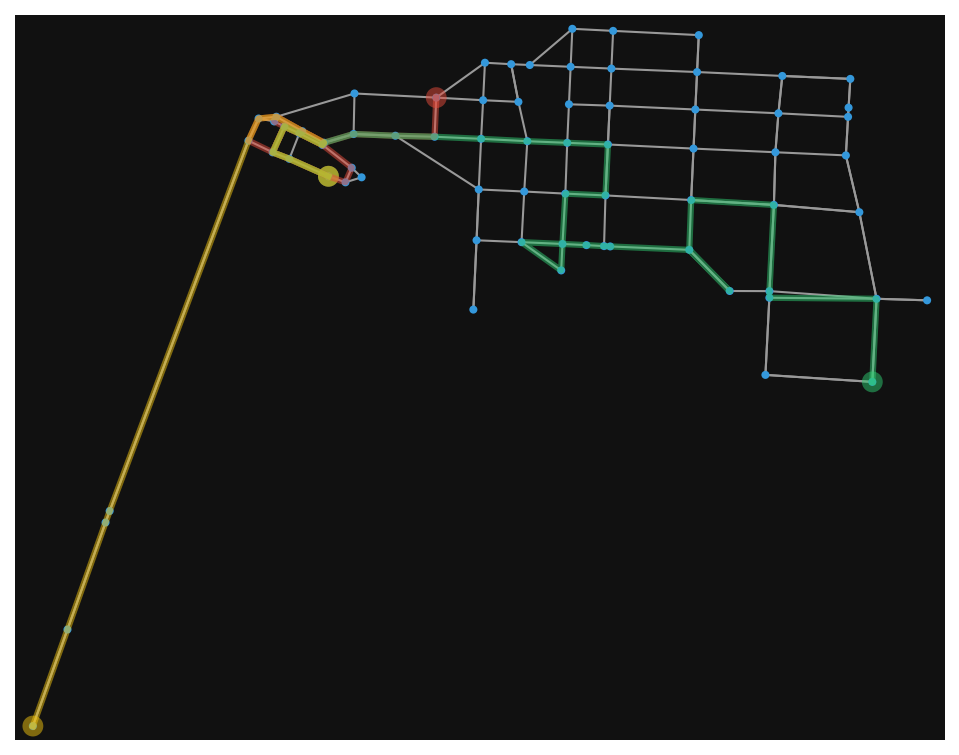
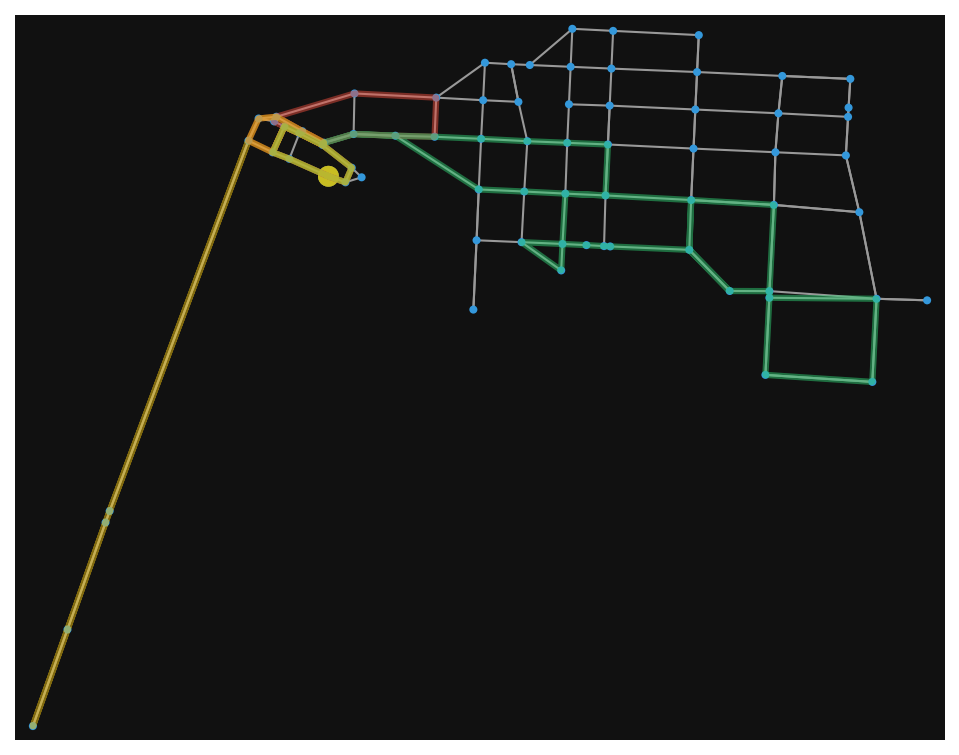
fixing solver to include hub at the end of the route to make the visualizations consistent

diff --git a/main.py b/main.py
@@ -99,8 +99,9 @@ def print_fleet_summary(solution, urgent_nodes, demands):
     print(f"Total fleet travel time: {total_travel_time:.1f} mins")
     print(f"Stops served: {stops_served}/{total_urgent}")
     for i, route in enumerate(solution.routes):
-        stops_visited = len(route) - 1
-        load = sum(demands[node] for node in route[1:])
+        customer_stops = [node for node in route[1:] if node in demands]
+        stops_visited = len(customer_stops)
+        load = sum(demands[node] for node in customer_stops)
         print(f"  V{i}: {stops_visited} stops, "
               f"{solution.travel_times[i]:.1f} mins, load={load:.2f}")
 

diff --git a/src/solvers/greedy_solver.py b/src/solvers/greedy_solver.py
@@ -23,7 +23,7 @@ class GreedySolver(RoutingSolver):
 
         routes = [vehicle.route_history for vehicle in fleet]
         travel_times = [vehicle.travel_time for vehicle in fleet]
-        served = {node for vehicle in fleet for node in vehicle.route_history[1:]}
+        served = {node for vehicle in fleet for node in vehicle.route_history[1:] if node != hub_node}
         skipped = {node for vehicle in fleet for node in vehicle.skipped_nodes}
 
         return FleetSolution(
@@ -76,3 +76,5 @@ class GreedySolver(RoutingSolver):
         if vehicle.current_node != vehicle.hub:
             return_time = net_graph.get_path_distance(vehicle.current_node, vehicle.hub)
             vehicle.travel_time += return_time
+            vehicle.route_history.append(vehicle.hub)
+            vehicle.current_node = vehicle.hub

diff --git a/tests/test_solvers_smoke.py b/tests/test_solvers_smoke.py
@@ -49,7 +49,8 @@ def assert_valid_solution(solution):
 
     for route in solution.routes:
         assert route[0] == HUB
-        load = sum(DEMANDS[node] for node in route[1:])
+        customer_stops = [node for node in route[1:] if node != HUB]
+        load = sum(DEMANDS[node] for node in customer_stops)
         assert load <= CAPACITY
 
 